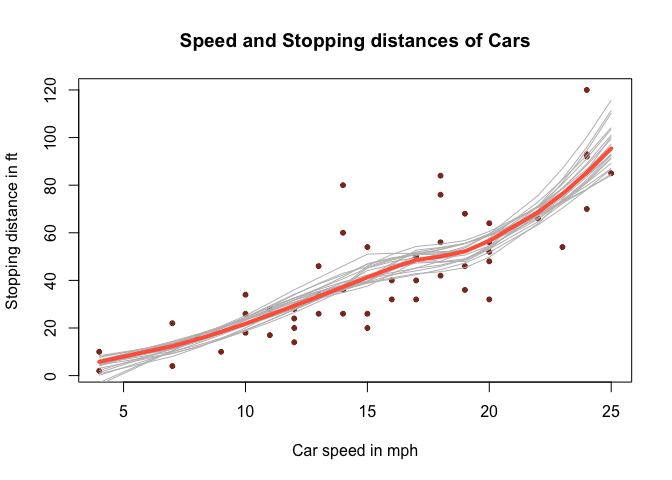
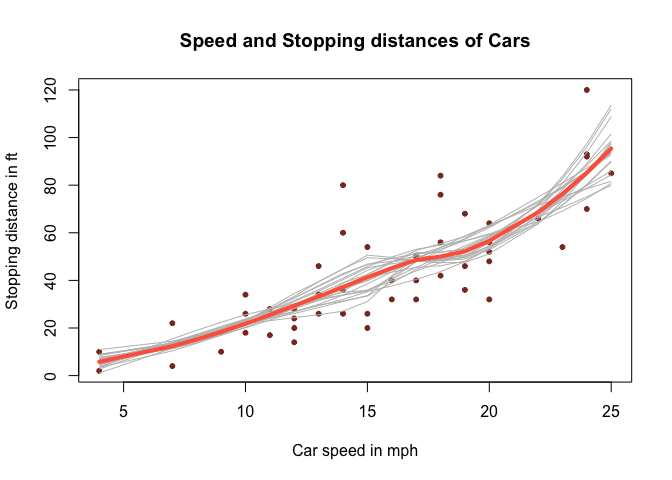
Changed http to https in documentation links

Changed region(s): [[0.125, 0.2188, 0.9062, 0.8125]]

diff --git a/README.md b/README.md
@@ -1,7 +1,9 @@
-`bayesboot`: Easy Bayesian Bootstrap in R
-=========================================
+# `bayesboot`: Easy Bayesian Bootstrap in R
 
-The `bayesboot` package implements a function `bayesboot` that performs the Bayesian bootstrap introduced by Rubin (1981). The implementation can both handle summary statistics that works on a weighted version of the data or that works on a resampled data set.
+The `bayesboot` package implements a function `bayesboot` that performs
+the Bayesian bootstrap introduced by Rubin (1981). The implementation
+can both handle summary statistics that works on a weighted version of
+the data or that works on a resampled data set.
 
 `bayesboot` is available on CRAN and can be installed in the usual way:
 
@@ -9,10 +11,10 @@ The `bayesboot` package implements a function `bayesboot` that performs the Baye
 install.packages("bayesboot")
 ```
 
-A simple example
-----------------
+## A simple example
 
-Here is a Bayesian bootstrap analysis of the mean height of the last ten American presidents:
+Here is a Bayesian bootstrap analysis of the mean height of the last ten
+American presidents:
 
 ``` r
 # Heights of the last ten American presidents in cm (Kennedy to Obama).
@@ -22,7 +24,8 @@ library(bayesboot)
 b1 <- bayesboot(heights, mean)
 ```
 
-The resulting posterior distribution in `b1` can now be `plot`ted and `summary`ized:
+The resulting posterior distribution in `b1` can now be `plot`ted and
+`summary`ized:
 
 ``` r
 summary(b1)
@@ -45,13 +48,21 @@ plot(b1)
 
 ![](man/figures/README-president_summary-1.png)
 
-While it is possible to use a summary statistic that works on a resample of the original data, it is more efficient if it's possible to use a summary statistic that works on a *reweighting* of the original dataset. Instead of using `mean` above it would be better to use `weighted.mean` like this:
+While it is possible to use a summary statistic that works on a resample
+of the original data, it is more efficient if it’s possible to use a
+summary statistic that works on a *reweighting* of the original dataset.
+Instead of using `mean` above it would be better to use `weighted.mean`
+like this:
 
 ``` r
 b2 <- bayesboot(heights, weighted.mean, use.weights = TRUE)
 ```
 
-The result of a call to `bayesboot` will always result in a `data.frame` with one column per dimension of the summary statistic. If the summary statistic does not return a named vector the columns will be called `V1`, `V2`, etc. The result of a `bayesboot` call can be further inspected and post processed. For example:
+The result of a call to `bayesboot` will always result in a `data.frame`
+with one column per dimension of the summary statistic. If the summary
+statistic does not return a named vector the columns will be called
+`V1`, `V2`, etc. The result of a `bayesboot` call can be further
+inspected and post processed. For example:
 
 ``` r
 # Given the model and the data, this is the probability that the mean
@@ -63,7 +74,13 @@ mean(c(b2[,1] > 175.9, TRUE, FALSE))
 
 ### Comparing two groups
 
-If we want to compare the means of two groups, we will have to call `bayesboot` twice with each dataset and then use the resulting samples to calculate the posterior difference. For example, let's say we have the heights of the opponents that lost to the presidents in `height` the first time those presidents were elected. Now we are interested in comparing the mean height of American presidents with the mean height of presidential candidates that lost.
+If we want to compare the means of two groups, we will have to call
+`bayesboot` twice with each dataset and then use the resulting samples
+to calculate the posterior difference. For example, let’s say we have
+the heights of the opponents that lost to the presidents in `height` the
+first time those presidents were elected. Now we are interested in
+comparing the mean height of American presidents with the mean height of
+presidential candidates that lost.
 
 ``` r
 # The heights of oponents of American presidents (first time they were elected).
@@ -82,12 +99,23 @@ plot(b_diff)
 
 ![](man/figures/README-height_comparison-1.png)
 
-So there is some evidence that loosing opponents could be shorter. (Though, I must add that it is quite unclear what the purpose really is with analyzing the heights of presidents and opponents...)
+So there is some evidence that loosing opponents could be shorter.
+(Though, I must add that it is quite unclear what the purpose really is
+with analyzing the heights of presidents and opponents…)
 
-A more advanced example
------------------------
+## A more advanced example
 
-A slightly more complicated example, where we do Bayesian bootstrap analysis of LOESS regression applied to the `cars` dataset on the speed of cars and the resulting distance it takes to stop. The `loess` function returns, among other things, a vector of `fitted` *y* values, one value for each *x* value in the data. These *y* values define the smoothed LOESS line and is what you would usually plot after having fitted a LOESS. Now we want to use the Bayesian bootstrap to gauge the uncertainty in the LOESS line. As the `loess` function accepts weighted data, we'll simply create a function that takes the data with weights and returns the `fitted` *y* values. We'll then plug that function into `bayesboot`:
+A slightly more complicated example, where we do Bayesian bootstrap
+analysis of LOESS regression applied to the `cars` dataset on the speed
+of cars and the resulting distance it takes to stop. The `loess`
+function returns, among other things, a vector of `fitted` *y* values,
+one value for each *x* value in the data. These *y* values define the
+smoothed LOESS line and is what you would usually plot after having
+fitted a LOESS. Now we want to use the Bayesian bootstrap to gauge the
+uncertainty in the LOESS line. As the `loess` function accepts weighted
+data, we’ll simply create a function that takes the data with weights
+and returns the `fitted` *y* values. We’ll then plug that function into
+`bayesboot`:
 
 ``` r
 boot_fn <- function(cars, weights) {
@@ -115,12 +143,19 @@ lines(cars$speed, colMeans(bb_loess, na.rm = TRUE), type ="l",
 
 ![](man/figures/README-car_plot-1.png)
 
-More information
-----------------
+## More information
 
-For more information on the Bayesian bootstrap see [Rubin's (1981) original paper](https://projecteuclid.org/euclid.aos/1176345338) and my blog post [The Non-parametric Bootstrap as a Bayesian Model](http://sumsar.net/blog/2015/04/the-non-parametric-bootstrap-as-a-bayesian-model/). The implementation of `bayesboot` is similar to the function outlined in the blog post [Easy Bayesian Bootstrap in R](http://sumsar.net/blog/2015/07/easy-bayesian-bootstrap-in-r/), but the interface is slightly different.
+For more information on the Bayesian bootstrap see [Rubin’s (1981)
+original paper](https://projecteuclid.org/euclid.aos/1176345338) and my
+blog post [The Non-parametric Bootstrap as a Bayesian
+Model](https://www.sumsar.net/blog/2015/04/the-non-parametric-bootstrap-as-a-bayesian-model/).
+The implementation of `bayesboot` is similar to the function outlined in
+the blog post [Easy Bayesian Bootstrap in
+R](https://www.sumsar.net/blog/2015/07/easy-bayesian-bootstrap-in-r/),
+but the interface is slightly different.
 
-References
-----------
+## References
 
-Rubin, D. B. (1981). The Bayesian bootstrap. *The annals of statistics*, 9(1), 130--134. [link to paper](https://projecteuclid.org/euclid.aos/1176345338)
+Rubin, D. B. (1981). The Bayesian bootstrap. *The annals of statistics*,
+9(1), 130–134. [link to
+paper](https://projecteuclid.org/euclid.aos/1176345338)
